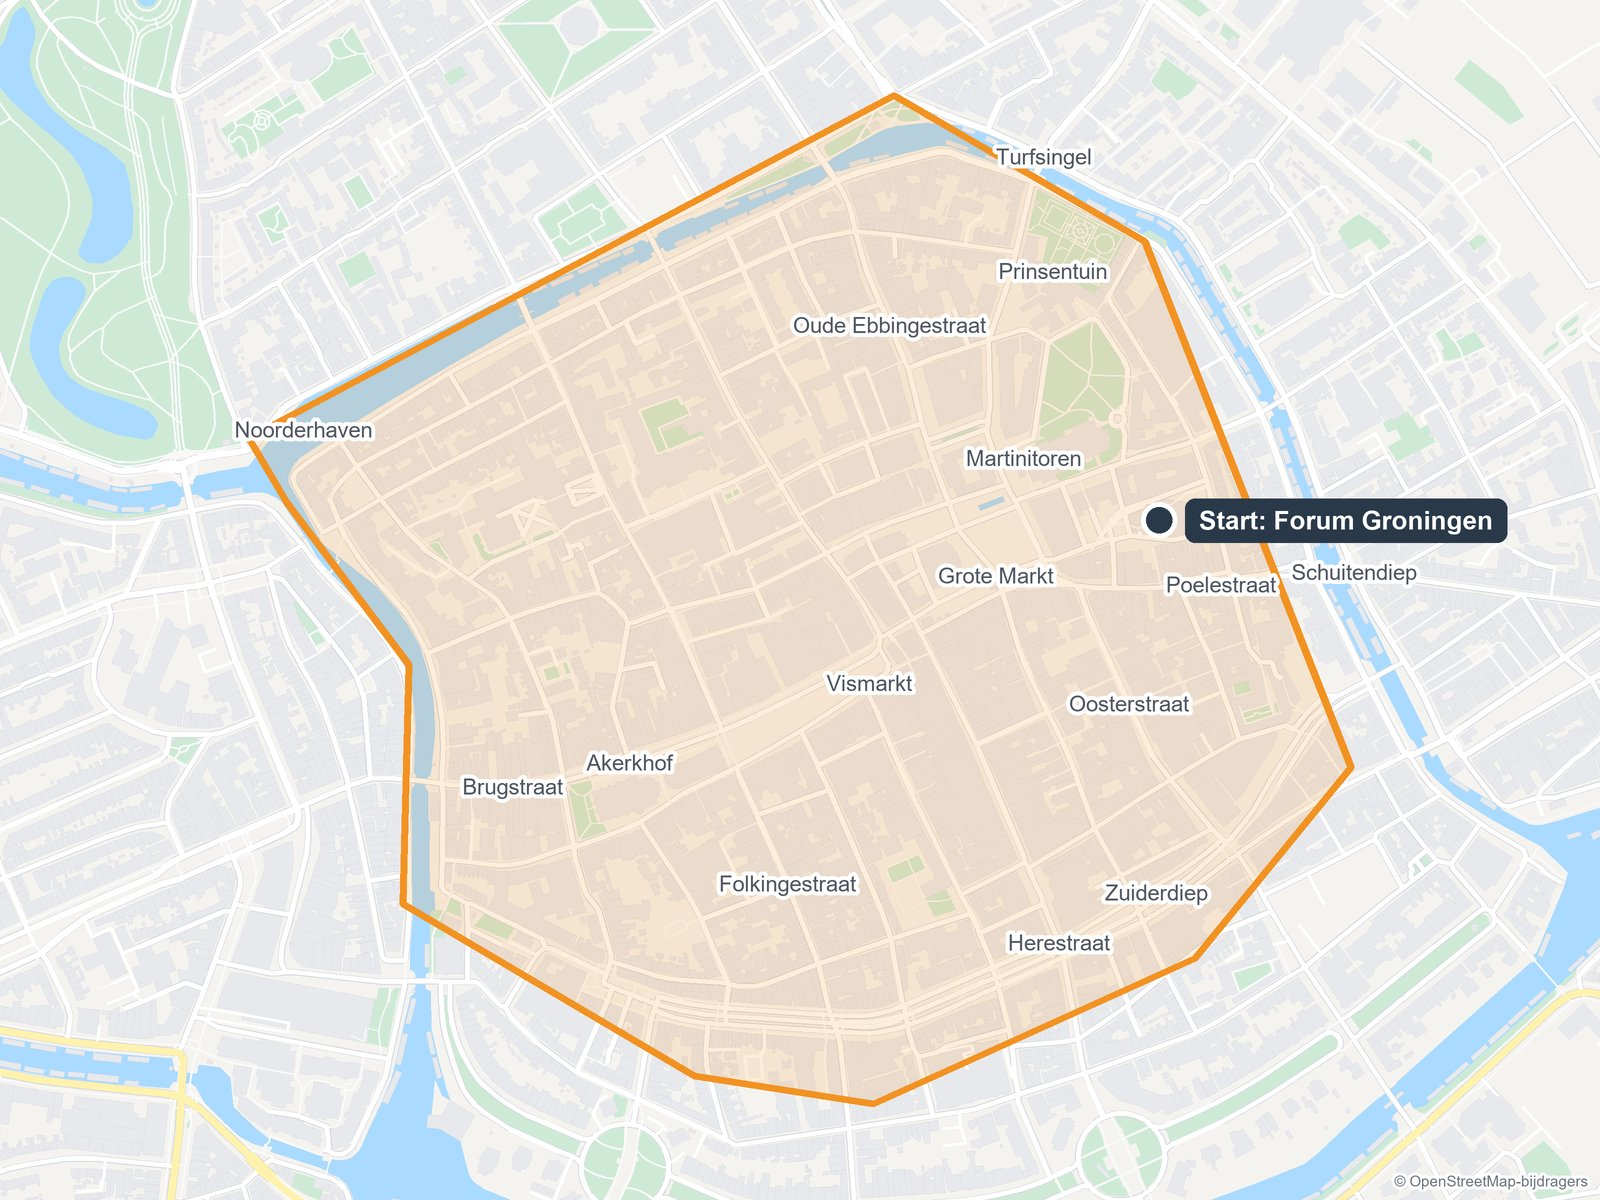
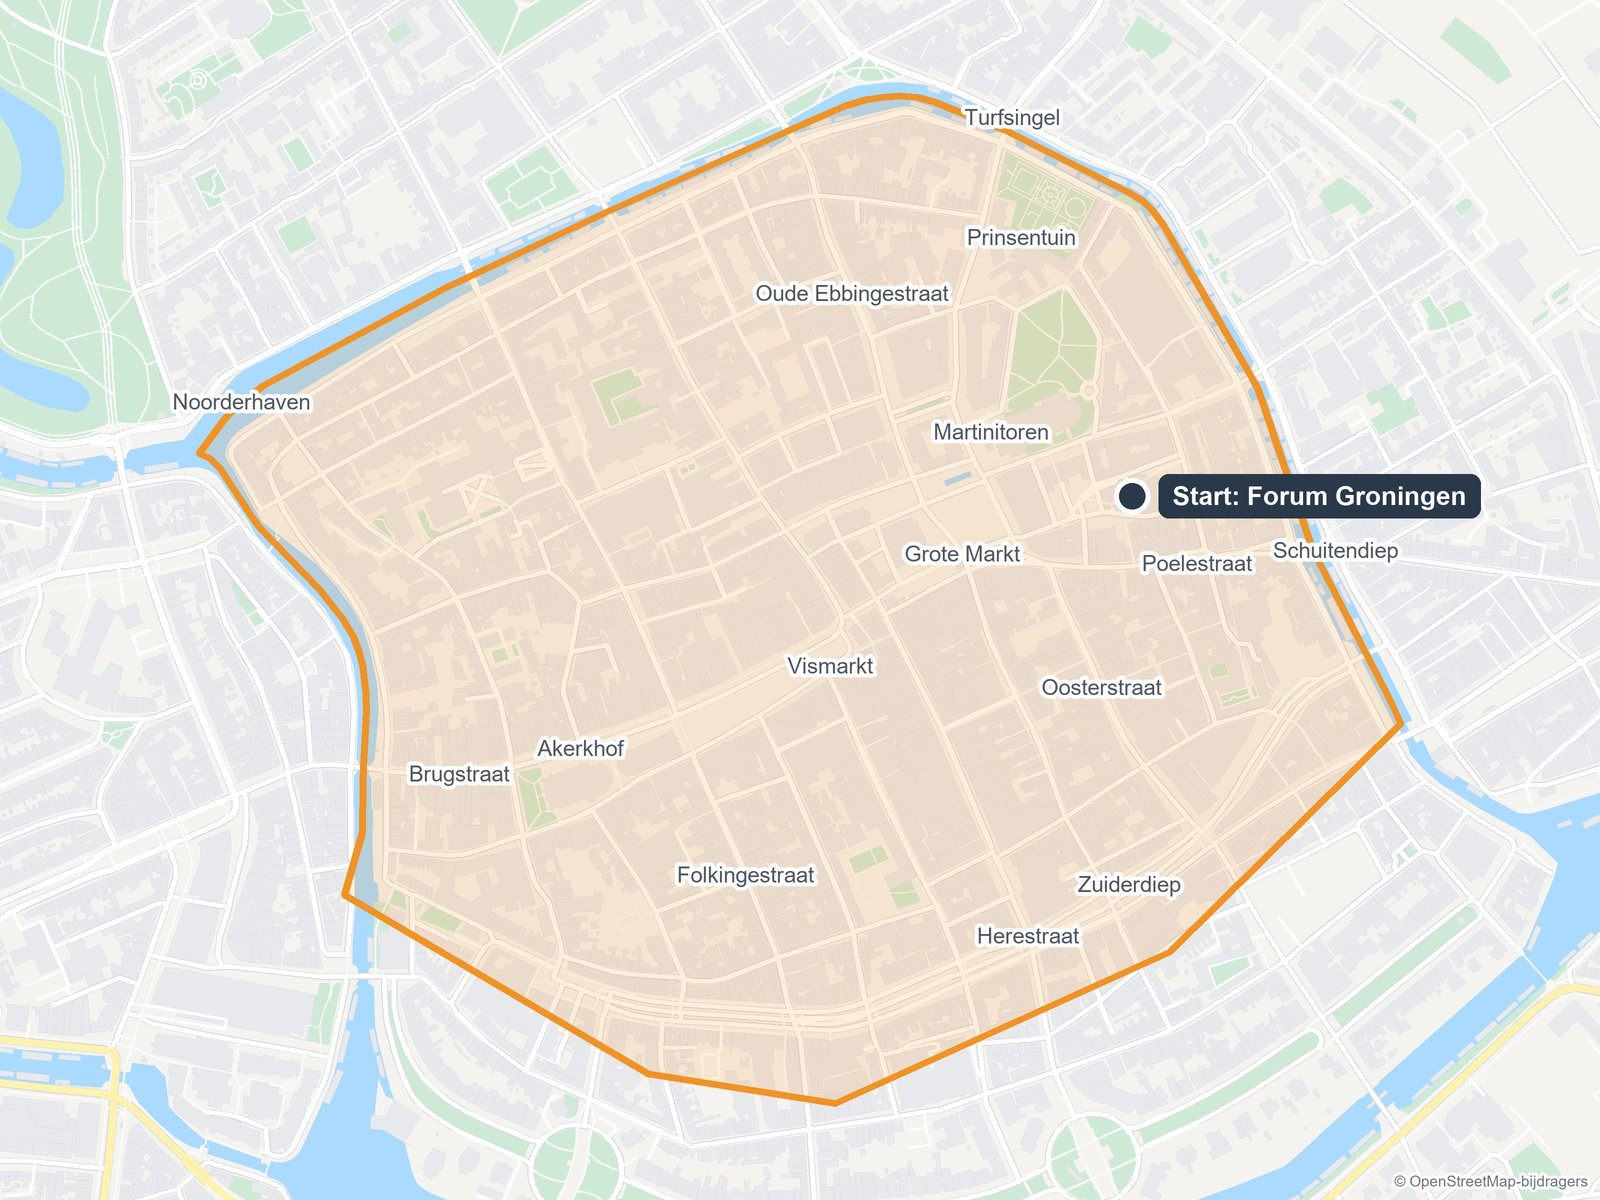
Groningen map: playing-field line follows the canals on the east side too

diff --git a/tools/kaarten/speelveld_kaart.py b/tools/kaarten/speelveld_kaart.py
@@ -5,6 +5,8 @@ from PIL import Image, ImageDraw, ImageFont
 SRC, OUT = sys.argv[1], sys.argv[2]
 FIELD = [(53.21963, 6.55682), (53.21905, 6.55739), (53.21764, 6.55917), (53.21554, 6.55908), (53.21403, 6.56336),
          (53.21378, 6.56599), (53.21506, 6.57071), (53.21674, 6.573), (53.22136, 6.56998), (53.22264, 6.56629)]
+if len(sys.argv) > 3:
+    FIELD = [tuple(p) for p in json.load(open(sys.argv[3]))]
 START = ('Start: Forum Groningen', 53.21891, 6.57018)
 LABELS = ['Grote Markt', 'Vismarkt', 'Martinitoren', 'Prinsentuin', 'Herestraat', 'Folkingestraat', 'Oude Ebbingestraat',
           'Oosterstraat', 'Akerkhof', 'Poelestraat', 'Zuiderdiep', 'Noorderhaven', 'Turfsingel', 'Schuitendiep', 'Brugstraat']
